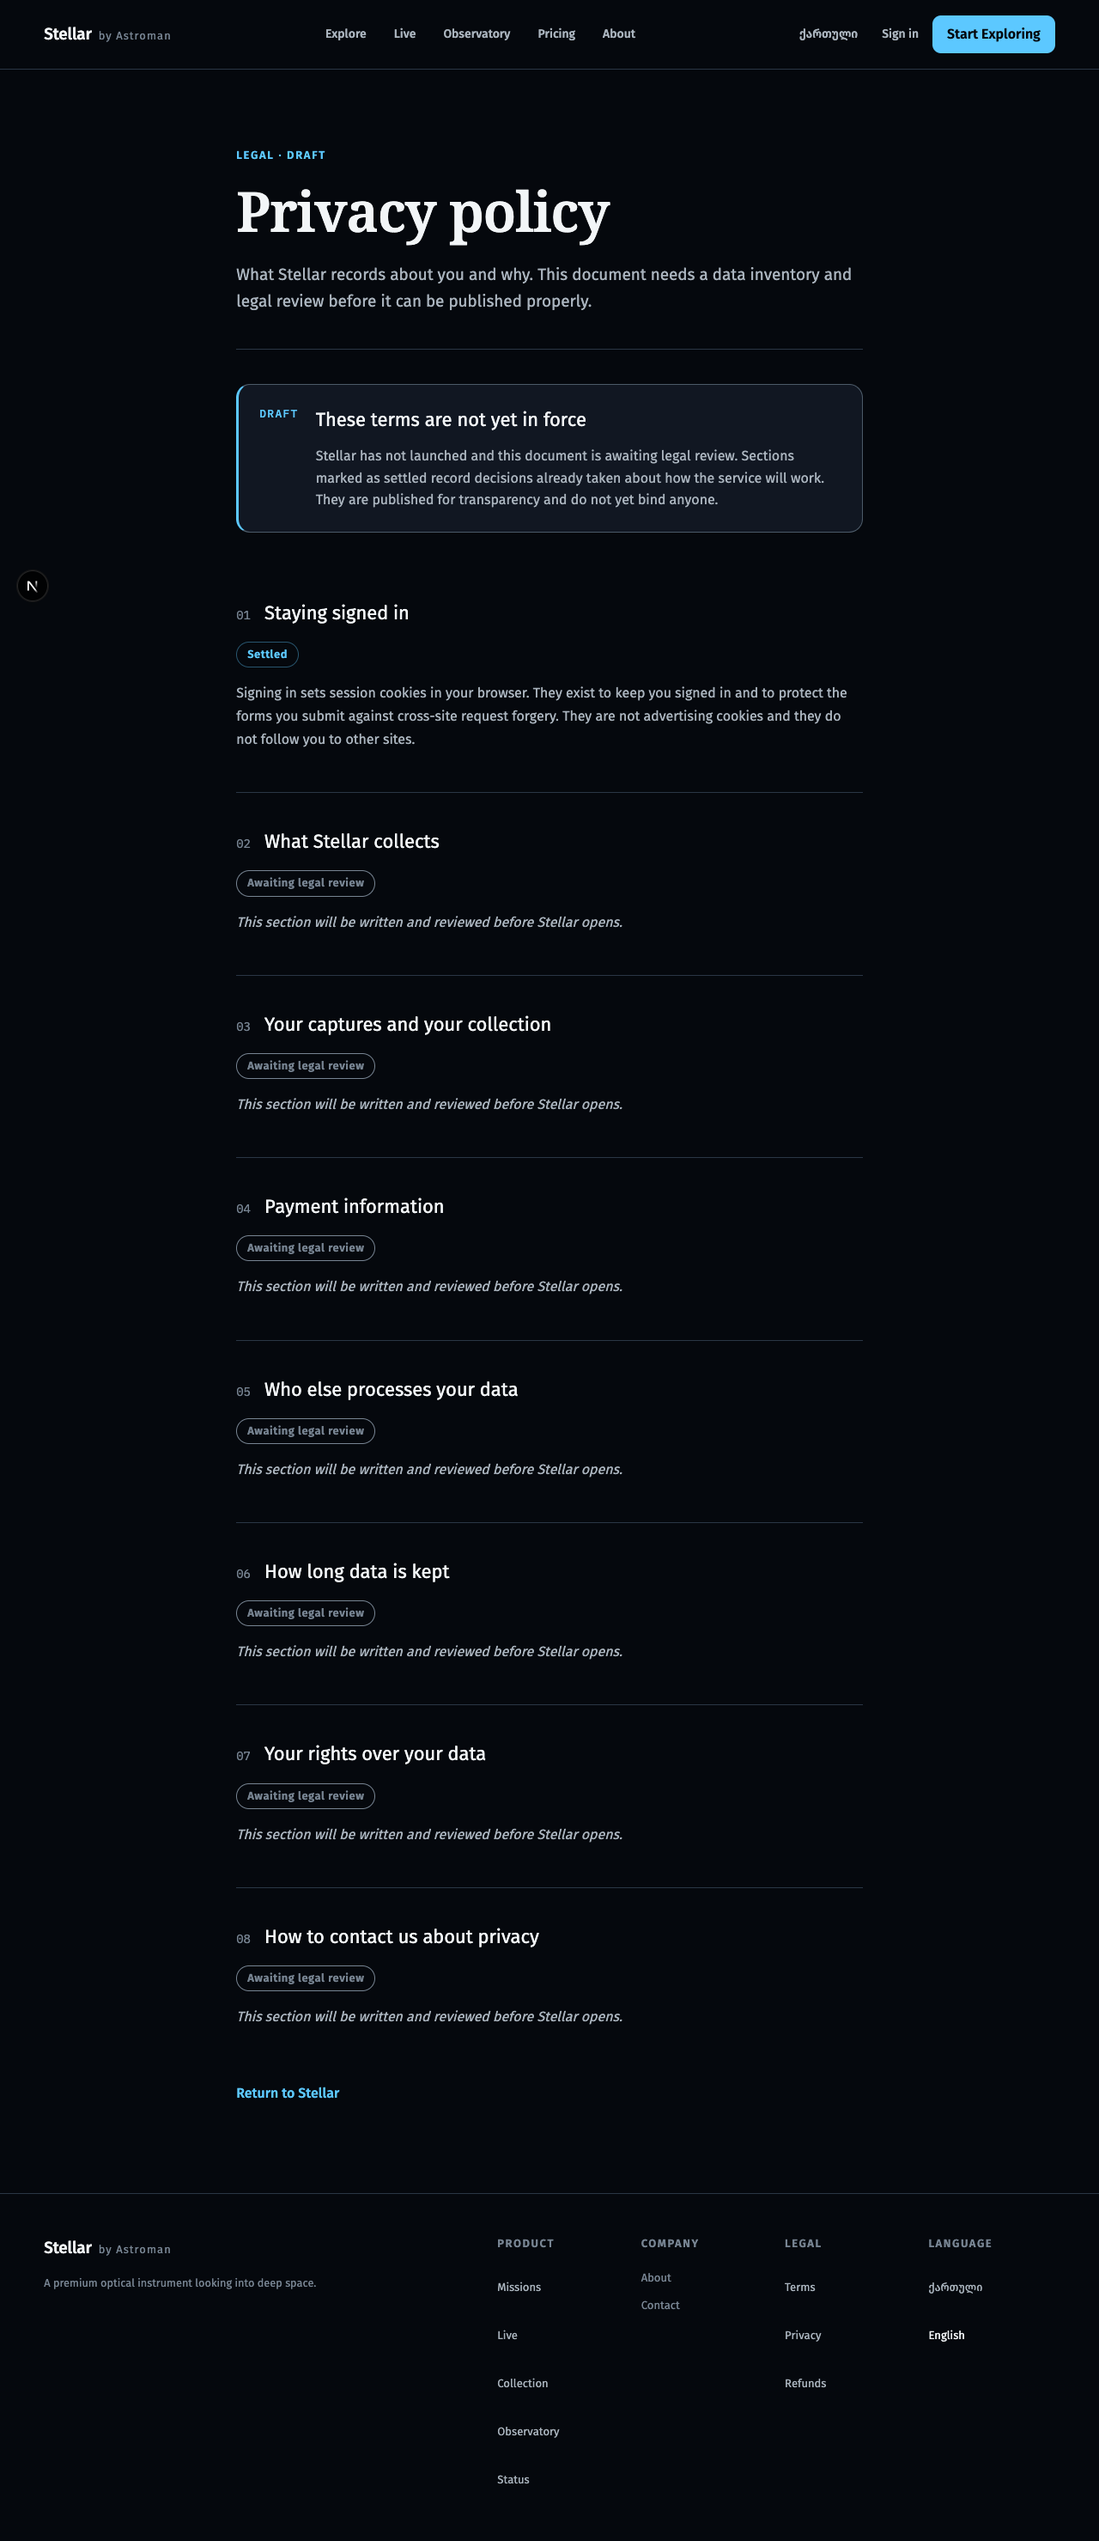
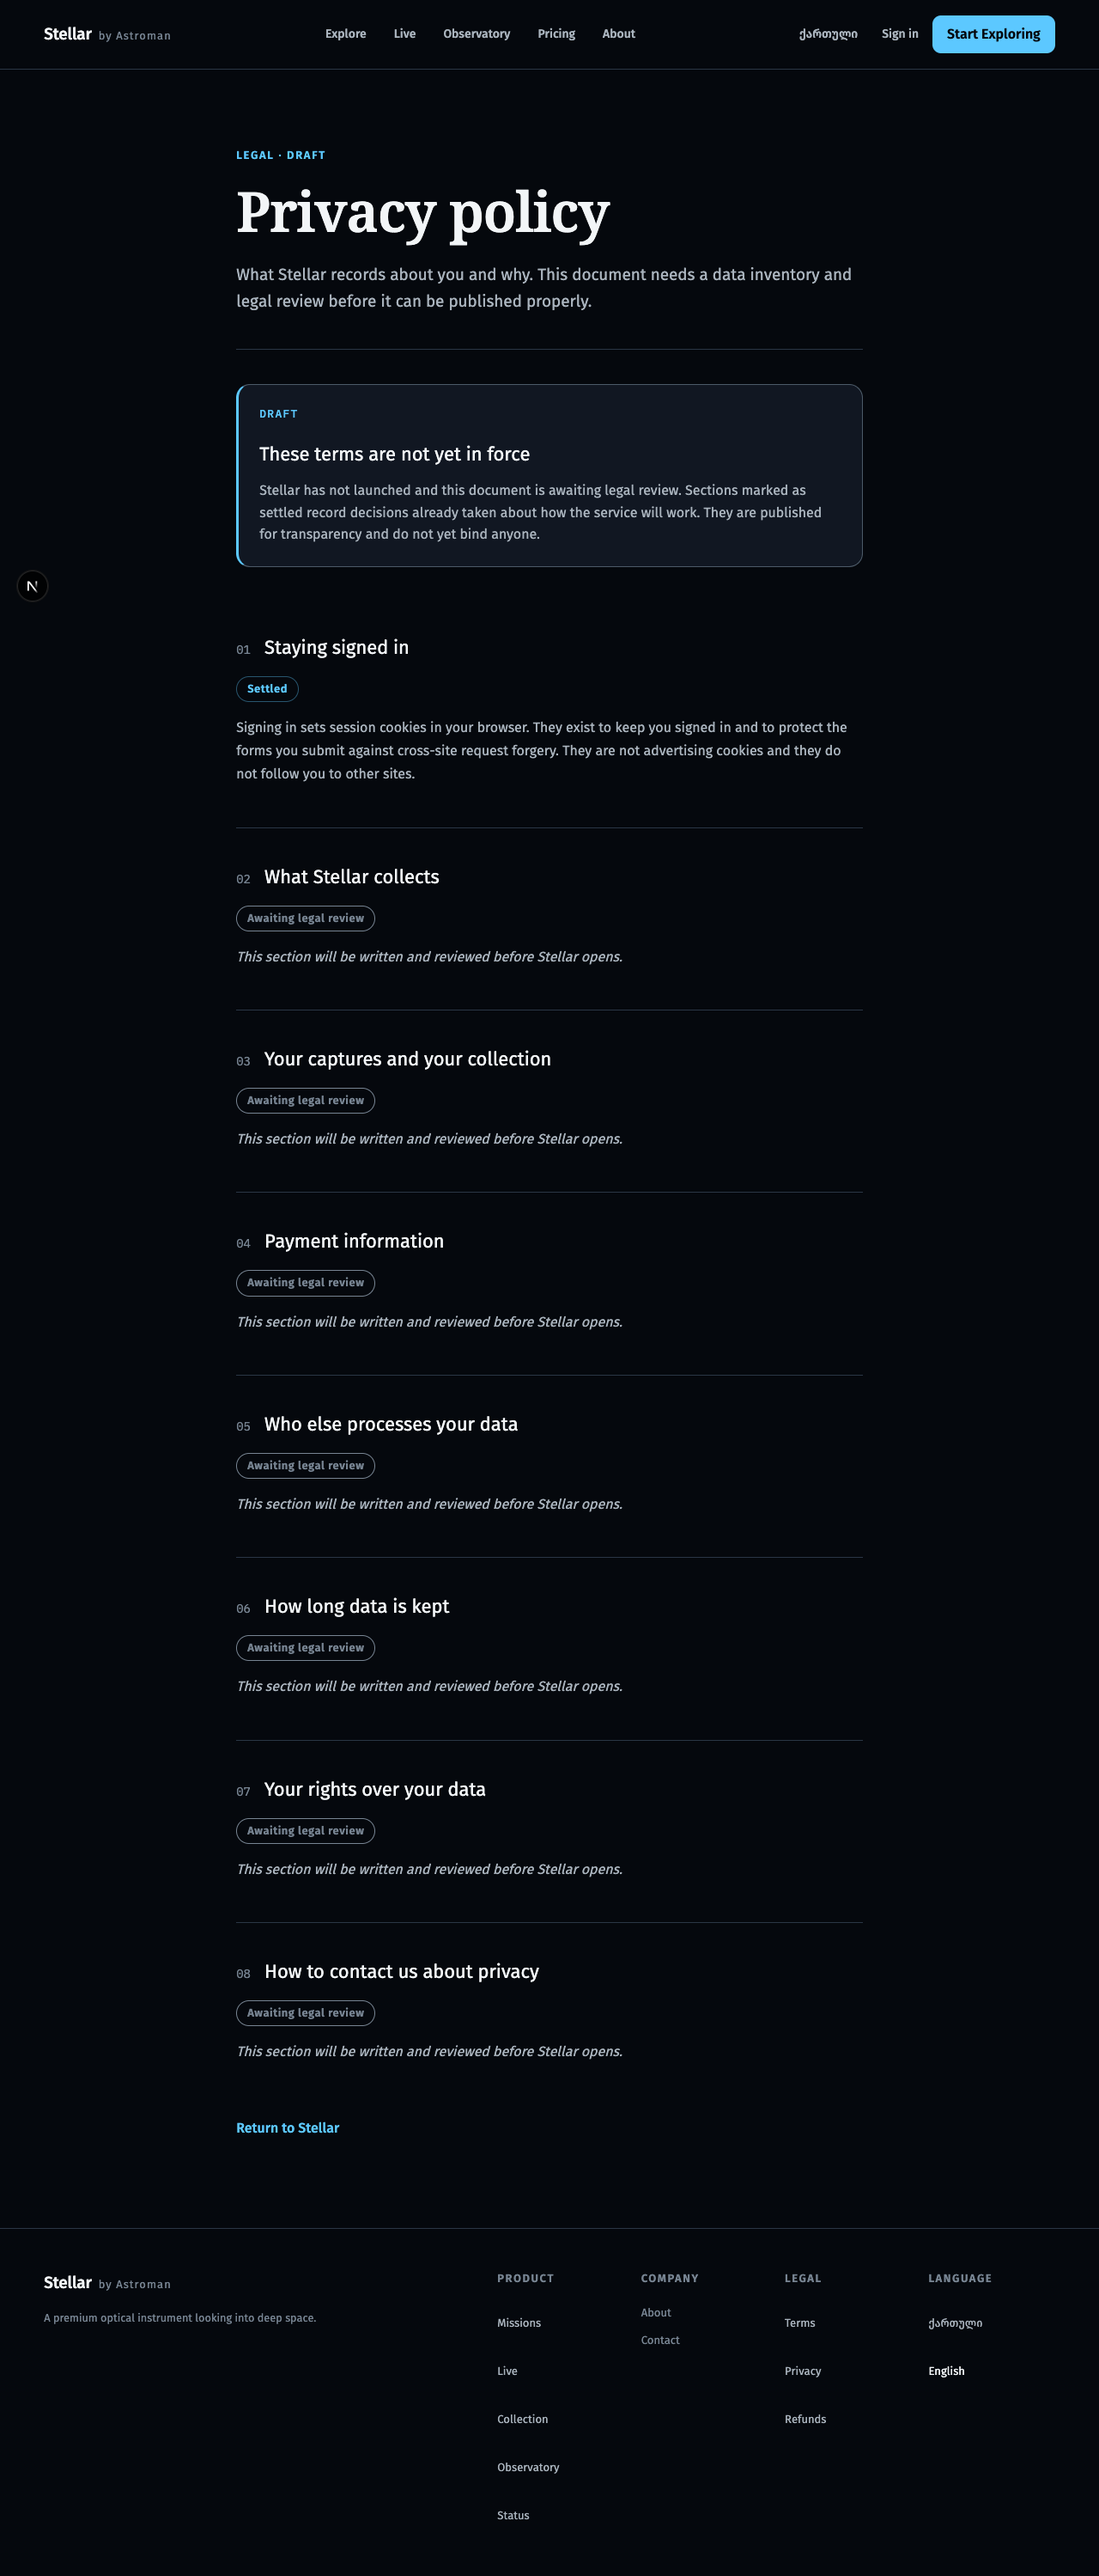
feat(web): the Phase 1 shell contract, and the ten defects it found
Phase 1 opens with the mechanism rather than the work, because a claim about
accessibility or responsiveness is worth what its evidence is worth.

e2e/shell-contract.ts checks every static route, in both languages, at 320 / 390
/ 768 / 1024 / 1440, for three things: no horizontal overflow, every landmark
that needs a name having one and no two sharing a role and a name, and a heading
outline that starts at exactly one h1. It reads the aria snapshot, so a landmark
hidden by display:none at that width is correctly absent. 98 tests.

It failed 27 times on first run, resolving to ten defects. The plan named two.

Confirmed from the plan:
  - the /app sidebar was an unnamed complementary landmark
  - StatePanel hardcoded h3, so /status unreachable and /admin with no
    observatory had no h1 at all; it now takes a headingLevel

New, none of them in the plan:
  - /pricing had two region landmarks both named by the h1's text
  - /app/live had no heading whatsoever
  - /network's foundation aside was unnamed
  - /status's label column had a 12rem floor, wider than a 320px page
  - /status's table and /design-system's tab list: overflow-x cannot shrink a
    grid or flex item without min-width 0
  - /design-system's swatch row had four columns and a 7rem floor
  - the Georgian legal notice, a flex child that would not shrink below content
  - white-space:nowrap on a status pill whose Georgian label runs to 293px
[…]

diff --git a/apps/web/e2e/shell-contract.ts b/apps/web/e2e/shell-contract.ts
@@ -1,0 +1,122 @@
+import { expect, test, type Page } from "@playwright/test";
+
+// docs/plan/02-build-phases.md Phase 1: every surface verified at these five widths,
+// every phase, in both languages — not at the end.
+export const widths = [320, 390, 768, 1024, 1440] as const;
+
+export const locales = ["en", "ka"] as const;
+
+const landmarkRoles = new Set([
+  "banner",
+  "navigation",
+  "main",
+  "complementary",
+  "contentinfo",
+  "search",
+  "form",
+  "region",
+]);
+
+// Landmarks that convey nothing without a name. banner, main and contentinfo are
+// unique per page and are named by their role alone.
+const mustBeNamed = ["navigation", "complementary", "region", "form"];
+
+type Landmark = { role: string; name: string };
+
+// An aria snapshot contains only what is actually exposed, so a landmark hidden by
+// display:none at this width never appears. That is the point: the question is what a
+// screen reader reaches at this width, not what the source happens to contain.
+async function landmarks(page: Page): Promise<Landmark[]> {
+  const snapshot = await page.locator("body").ariaSnapshot();
+  return snapshot
+    .split("\n")
+    .map((line) => line.trim().match(/^- ([a-z]+)(?: "([^"]*)")?/))
+    .filter((match): match is RegExpMatchArray => match !== null)
+    .filter((match) => landmarkRoles.has(match[1]))
+    .map((match) => ({ role: match[1], name: match[2] ?? "" }));
+}
+
+function headingLevels(page: Page) {
+  return page
+    .locator("h1, h2, h3, h4, h5, h6")
+    .evaluateAll((nodes) =>
+      nodes
+        // checkVisibility, not offsetParent: a position:fixed heading has no
+        // offsetParent and would read as hidden when it is on screen.
+        .filter((node) => (node as HTMLElement).checkVisibility())
+        .map((node) => Number(node.tagName.slice(1))),
+    );
+}
+
+export function describeShellContract(routes: readonly string[]) {
+  for (const locale of locales) {
+    for (const route of routes) {
+      const path = `/${locale}${route ? `/${route}` : ""}`;
+
+      test(`${path} holds its shape at every width`, async ({ page }) => {
+        await page.goto(path);
+        await expect(page.locator("main")).toBeVisible();
+
+        for (const width of widths) {
+          await page.setViewportSize({ width, height: 900 });
+          // Phase 1 Done-when: no horizontal scroll at 320px anywhere. Checked at
+          // every width, because a layout that overflows at 768 is just as broken.
+          const overflow = await page.evaluate(
+            () =>
+              document.documentElement.scrollWidth -
+              document.documentElement.clientWidth,
+          );
+          expect(overflow, `horizontal overflow at ${width}px`).toBeLessThanOrEqual(0);
+        }
+      });
+
+      test(`${path} exposes one unambiguous landmark set`, async ({ page }) => {
+        await page.goto(path);
+
+        // 390 and 1440 are the two that matter: the sidebar and the bottom bar swap
+        // places between them, and a duplicate landmark would appear in that swap.
+        for (const width of [390, 1440]) {
+          await page.setViewportSize({ width, height: 900 });
+          const exposed = await landmarks(page);
+
+          expect(
+            exposed.filter((landmark) => landmark.role === "main"),
+            `main landmarks at ${width}px`,
+          ).toHaveLength(1);
+
+          expect(
+            exposed
+              .filter(
+                (landmark) =>
+                  landmark.name === "" && mustBeNamed.includes(landmark.role),
+              )
+              .map((landmark) => landmark.role),
+            `landmarks with no accessible name at ${width}px`,
+          ).toEqual([]);
+
+          // WCAG 1.3.1: two landmarks of the same role must be told apart by name.
+          const seen = exposed.map((landmark) => `${landmark.role}:${landmark.name}`);
+          expect(
+            seen.filter((key, index) => seen.indexOf(key) !== index),
+            `landmarks sharing a role and a name at ${width}px`,
+          ).toEqual([]);
+        }
+      });
+
+      test(`${path} starts its heading outline at h1`, async ({ page }) => {
+        await page.goto(path);
+        await page.setViewportSize({ width: 1440, height: 900 });
+
+        const levels = await headingLevels(page);
+        expect(levels.length, "the page has at least one visible heading").toBeGreaterThan(
+          0,
+        );
+        expect(levels[0], "the first visible heading is the page's h1").toBe(1);
+        expect(
+          levels.filter((level) => level === 1),
+          "exactly one h1",
+        ).toHaveLength(1);
+      });
+    }
+  }
+}

diff --git a/apps/web/src/i18n/resources/pricing.ts b/apps/web/src/i18n/resources/pricing.ts
@@ -5,6 +5,7 @@ export const pricingPageCopy = {
       "Conceptual Stellar access offerings with configurable pricing and no payment integration.",
     eyebrow: "STELLAR ACCESS · CONFIGURATION DRAFT",
     title: "Choose how deeply you look.",
+    offerings: "Access offerings",
     introduction:
       "Start with the shared sky, build a personal collection, or plan for dedicated telescope time.",
     noticeTitle: "Pricing is not finalized",
@@ -41,6 +42,7 @@ export const pricingPageCopy = {
       "სტელარზე წვდომის კონცეფციური შეთავაზებები და კონფიგურირებადი ფასების სტრუქტურა.",
     eyebrow: "სტელარზე წვდომა · კონფიგურაციის მონახაზი",
     title: "აირჩიეთ, რამდენად ღრმად გაიხედავთ.",
+    offerings: "წვდომის შეთავაზებები",
     introduction:
       "დაიწყეთ საერთო ცით, შექმენით პირადი კოლექცია ან დაგეგმეთ ტელესკოპის გამოყოფილი დრო.",
     noticeTitle: "ფასები ჯერ არ არის საბოლოო",

diff --git a/apps/web/src/components/ui/state-panel.tsx b/apps/web/src/components/ui/state-panel.tsx
@@ -5,14 +5,19 @@ type StatePanelProps = {
   description: string;
   action?: ReactNode;
   variant?: "empty" | "error";
+  // A panel nested in a section is an h3. A panel that *is* the page — an unreachable
+  // platform, an operator console with no observatory — owes the page its h1.
+  headingLevel?: 1 | 2 | 3;
 };
 
 export function StatePanel({
   action,
   description,
+  headingLevel = 3,
   title,
   variant = "empty",
 }: StatePanelProps) {
+  const Heading = `h${headingLevel}` as const;
   return (
     <div
       className={`state-panel state-panel-${variant}`}
@@ -21,7 +26,7 @@ export function StatePanel({
       <span className="state-symbol" aria-hidden="true">
         {variant === "error" ? "!" : "○"}
       </span>
-      <h3>{title}</h3>
+      <Heading>{title}</Heading>
       <p>{description}</p>
       {action && <div className="state-action">{action}</div>}
     </div>

diff --git a/apps/web/src/i18n/resources/live.ts b/apps/web/src/i18n/resources/live.ts
@@ -31,6 +31,7 @@ export const liveObservationCopy = {
     },
     safeControl: "Safe server-validated framing control enabled",
     viewportLabel: (target: string) => `${target} live observation`,
+    pageHeading: (target: string) => `Live observation of ${target}`,
   },
   ka: {
     metadataTitle: "პირდაპირი დაკვირვება · სტელარი",
@@ -67,6 +68,7 @@ export const liveObservationCopy = {
     },
     safeControl: "სერვერით შემოწმებული უსაფრთხო კადრირების კონტროლი ჩართულია",
     viewportLabel: (target: string) => `${target} — პირდაპირი დაკვირვება`,
+    pageHeading: (target: string) => `${target} — პირდაპირი დაკვირვება`,
   },
 } as const;
 

diff --git a/apps/web/src/styles/status.css b/apps/web/src/styles/status.css
@@ -117,10 +117,17 @@
 .status-row {
   display: grid;
   gap: var(--space-2);
-  grid-template-columns: minmax(12rem, 0.4fr) minmax(0, 1fr);
   align-items: baseline;
   padding-bottom: var(--space-4);
   border-bottom: 1px solid var(--color-border-subtle);
+}
+
+/* The label column's 12rem floor is wider than a 320px page can spare, and a Georgian
+   status label runs to 155px beside it. Stack until there is room for two columns. */
+@media (--sm) {
+  .status-row {
+    grid-template-columns: minmax(12rem, 0.4fr) minmax(0, 1fr);
+  }
 }
 
 .status-row:last-child {
@@ -163,6 +170,8 @@
 }
 
 .status-table-scroll {
+  /* overflow-x alone does not shrink a grid or flex item below its content. */
+  min-width: 0;
   margin-top: var(--space-6);
   overflow-x: auto;
 }

diff --git a/apps/web/src/styles/design-system.css b/apps/web/src/styles/design-system.css
@@ -115,12 +115,18 @@
 
 .ds-swatch-row {
   display: grid;
-  grid-template-columns: 1.5rem minmax(7rem, 1fr) auto 4.5rem;
+  grid-template-columns: 1.5rem minmax(0, 1fr);
   gap: var(--space-3);
   align-items: center;
   min-height: 2rem;
   color: var(--color-text-secondary);
   font-size: var(--font-size-label);
+}
+
+@media (--sm) {
+  .ds-swatch-row {
+    grid-template-columns: 1.5rem minmax(7rem, 1fr) auto 4.5rem;
+  }
 }
 
 .ds-swatch-row code,
@@ -361,16 +367,6 @@
 
 .ds-form > .button {
   justify-self: start;
-}
-
-.ds-visually-hidden {
-  position: absolute;
-  width: 1px;
-  height: 1px;
-  overflow: hidden;
-  clip: rect(0 0 0 0);
-  clip-path: inset(50%);
-  white-space: nowrap;
 }
 
 @media (min-width: 48rem) {

diff --git a/apps/web/src/styles/components.css b/apps/web/src/styles/components.css
@@ -196,10 +196,13 @@
   font-weight: var(--font-weight-semibold);
   letter-spacing: var(--tracking-label);
   text-transform: uppercase;
-  white-space: nowrap;
+  /* A Georgian status label runs to ~293px. nowrap made the pill push the page
+     sideways at 320; wrapping only happens where it genuinely does not fit. */
+  max-width: 100%;
 }
 
 .status-dot {
+  flex-shrink: 0;
   width: 0.35rem;
   height: 0.35rem;
   border-radius: var(--radius-full);
@@ -631,6 +634,8 @@
 }
 
 .tab-list {
+  /* overflow-x alone does not shrink a flex or grid item below its content. */
+  min-width: 0;
   display: flex;
   overflow-x: auto;
   border-bottom: 1px solid var(--color-border-subtle);

diff --git a/apps/web/e2e/shell.spec.ts b/apps/web/e2e/shell.spec.ts
@@ -1,0 +1,22 @@
+import { describeShellContract } from "./shell-contract";
+
+// Public routes plus the authenticated application shell. The admin console needs the
+// operator role and has its own projects; /sign-in and /register redirect an
+// authenticated visitor away, so they live in shell-signed-out.spec.ts.
+// Dynamic routes arrive with Phase 2, when their fixtures are wired to real data.
+describeShellContract([
+  "",
+  "pricing",
+  "network",
+  "observatory",
+  "status",
+  "terms",
+  "privacy",
+  "refunds",
+  "design-system",
+  "app",
+  "app/missions",
+  "app/live",
+  "app/collection",
+  "app/profile",
+]);

diff --git a/apps/web/playwright.config.ts b/apps/web/playwright.config.ts
@@ -19,7 +19,7 @@ export default defineConfig({
     },
     {
       name: "chromium",
-      testIgnore: /auth\.(setup|spec)\.ts|operator(-records)?\.(evidence\.)?spec\.ts/,
+      testIgnore: /auth\.(setup|spec)\.ts|shell-signed-out\.spec\.ts|operator(-records)?\.(evidence\.)?spec\.ts/,
       dependencies: ["setup"],
       use: {
         ...devices["Desktop Chrome"],
@@ -52,7 +52,7 @@ export default defineConfig({
     },
     {
       name: "signed-out",
-      testMatch: /auth\.spec\.ts/,
+      testMatch: /(auth|shell-signed-out)\.spec\.ts/,
       use: { ...devices["Desktop Chrome"], channel: "chrome" },
     },
   ],

diff --git a/apps/web/e2e/selectors.ts b/apps/web/e2e/selectors.ts
@@ -8,8 +8,9 @@ import type { Page } from "@playwright/test";
 
 /**
  * The application sidebar. The page carries two `complementary` landmarks -- this
- * one and the observatory panel -- and only the other has an accessible name, so
- * the sidebar is identified by the navigation it contains.
+ * one and the observatory panel -- and both are now named, so either would resolve
+ * by name. It stays keyed to the navigation it contains because that works in both
+ * languages, where a name would have to be looked up per locale.
  */
 export function appSidebar(page: Page) {
   return page

diff --git a/apps/web/src/styles/legal.css b/apps/web/src/styles/legal.css
@@ -37,6 +37,7 @@
 
 .legal-notice {
   display: flex;
+  flex-wrap: wrap;
   gap: var(--space-5);
   margin-top: var(--space-10);
   padding: var(--space-6);
@@ -44,6 +45,12 @@
   border-left: 3px solid var(--color-photon);
   border-radius: var(--radius-panel);
   background: var(--color-surface-raised);
+}
+
+/* A flex child will not shrink below its content unless told to, and the Georgian
+   notice is long enough that the default min-width:auto pushes it past a 320px page. */
+.legal-notice > * {
+  min-width: 0;
 }
 
 .legal-notice-marker {

diff --git a/apps/web/src/styles/globals.css b/apps/web/src/styles/globals.css
@@ -71,6 +71,20 @@ a {
   padding-inline: var(--space-page);
 }
 
+/*
+ * The one visually-hidden utility. A heading or label that belongs in the accessibility
+ * tree but not in the layout uses this — an immersive viewport still owes a screen
+ * reader an h1. Previously duplicated in operator.css and design-system.css.
+ */
+.visually-hidden {
+  position: absolute;
+  width: 1px;
+  height: 1px;
+  overflow: hidden;
+  clip-path: inset(50%);
+  white-space: nowrap;
+}
+
 .skip-link {
   position: fixed;
   z-index: 50;
